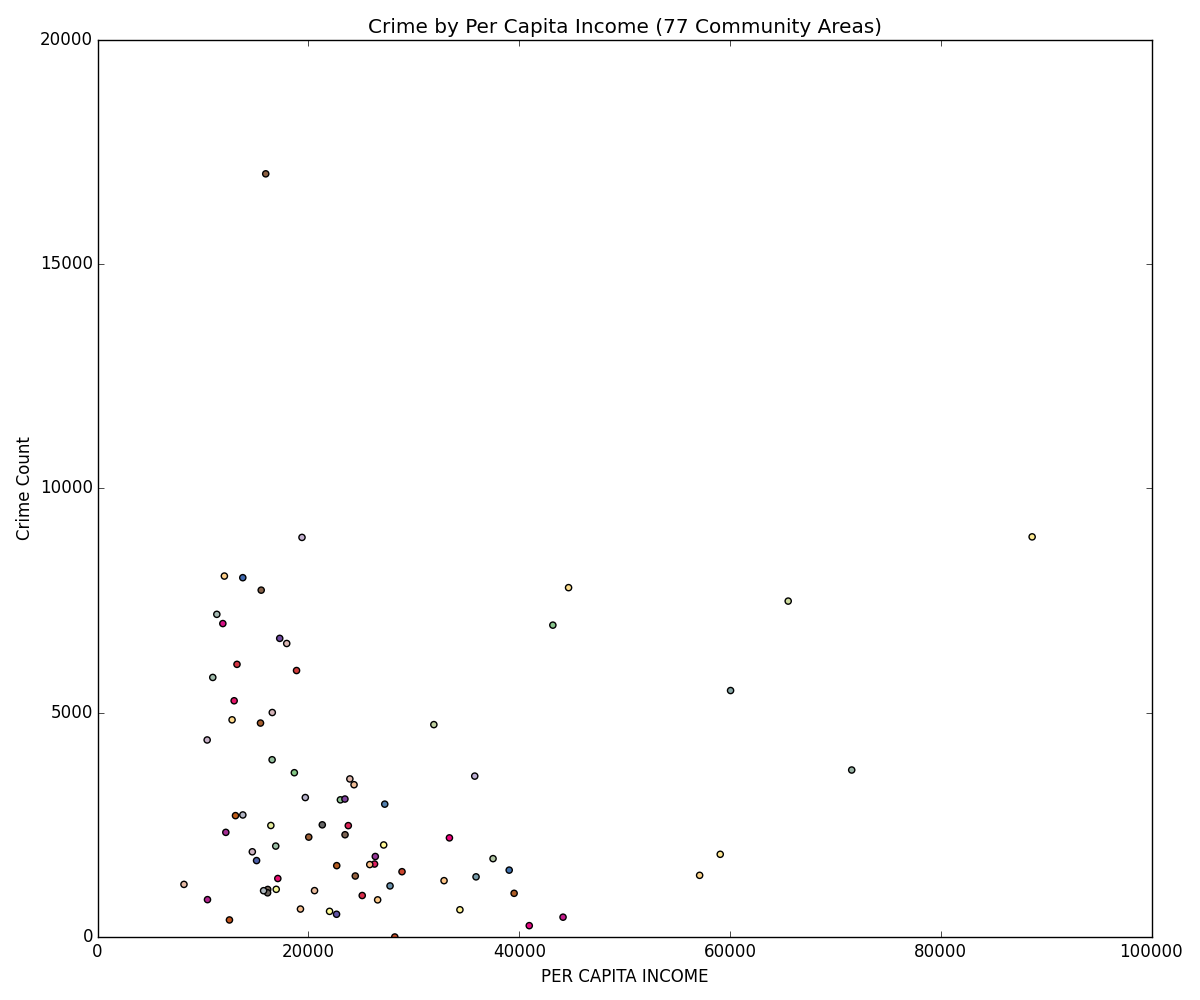
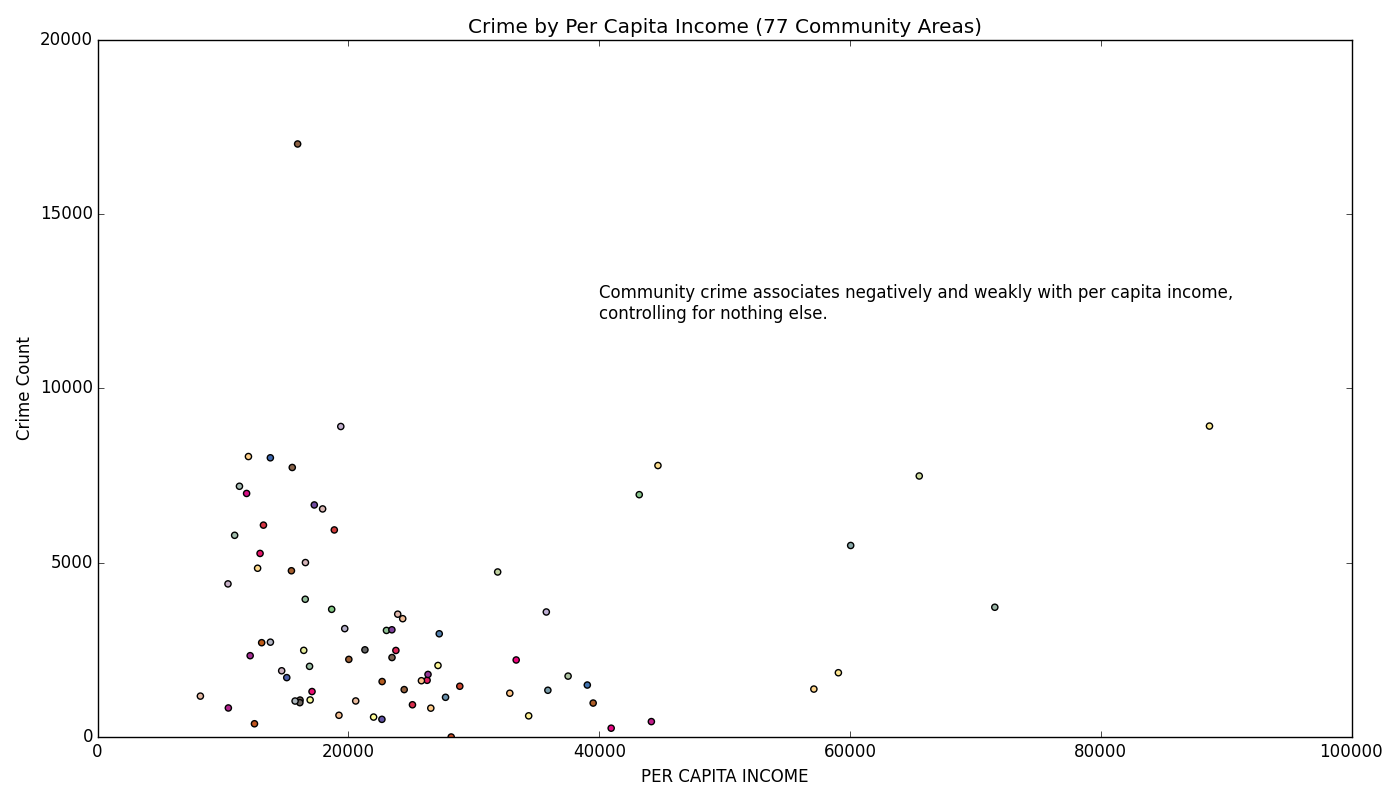
PA2 Added caption to 1 d)

diff --git a/pa2/pa2.py b/pa2/pa2.py
@@ -528,7 +528,7 @@ def set_color_column(com_name):
     return chi.get_community(com_name).color
 
 # Scatter crime count on area income
-fig, ax= plt.subplots(figsize=(12,10))
+fig, ax= plt.subplots(figsize=(14,8))
 t = 'Crime by Per Capita Income (77 Community Areas)'
 doc = 'crime_count_bypcincome.png'
 
@@ -536,9 +536,14 @@ dem_crime['Color']=dem_crime[cname].apply(set_color_column)
 dem_crime.fillna(0, inplace=True)
 dem_colors = dem_crime.Color.tolist()
 dem_crime.plot(kind='scatter', x=pcincome, y='Crime Count', c=dem_colors, title=t, ax=ax)
+ax.text(30000, 12000, 'Community crime associates negatively and weakly with per capita income,\
+\ncontrolling for nothing else.')
 plt.ylim(0)
 plt.gcf().tight_layout()
 fig.savefig(doc)
+
+print "Community crime associates negatively and weakly with per capita income,\
+\ncontrolling for nothing else."
 
 # Question 2: Community Area populations
 #
